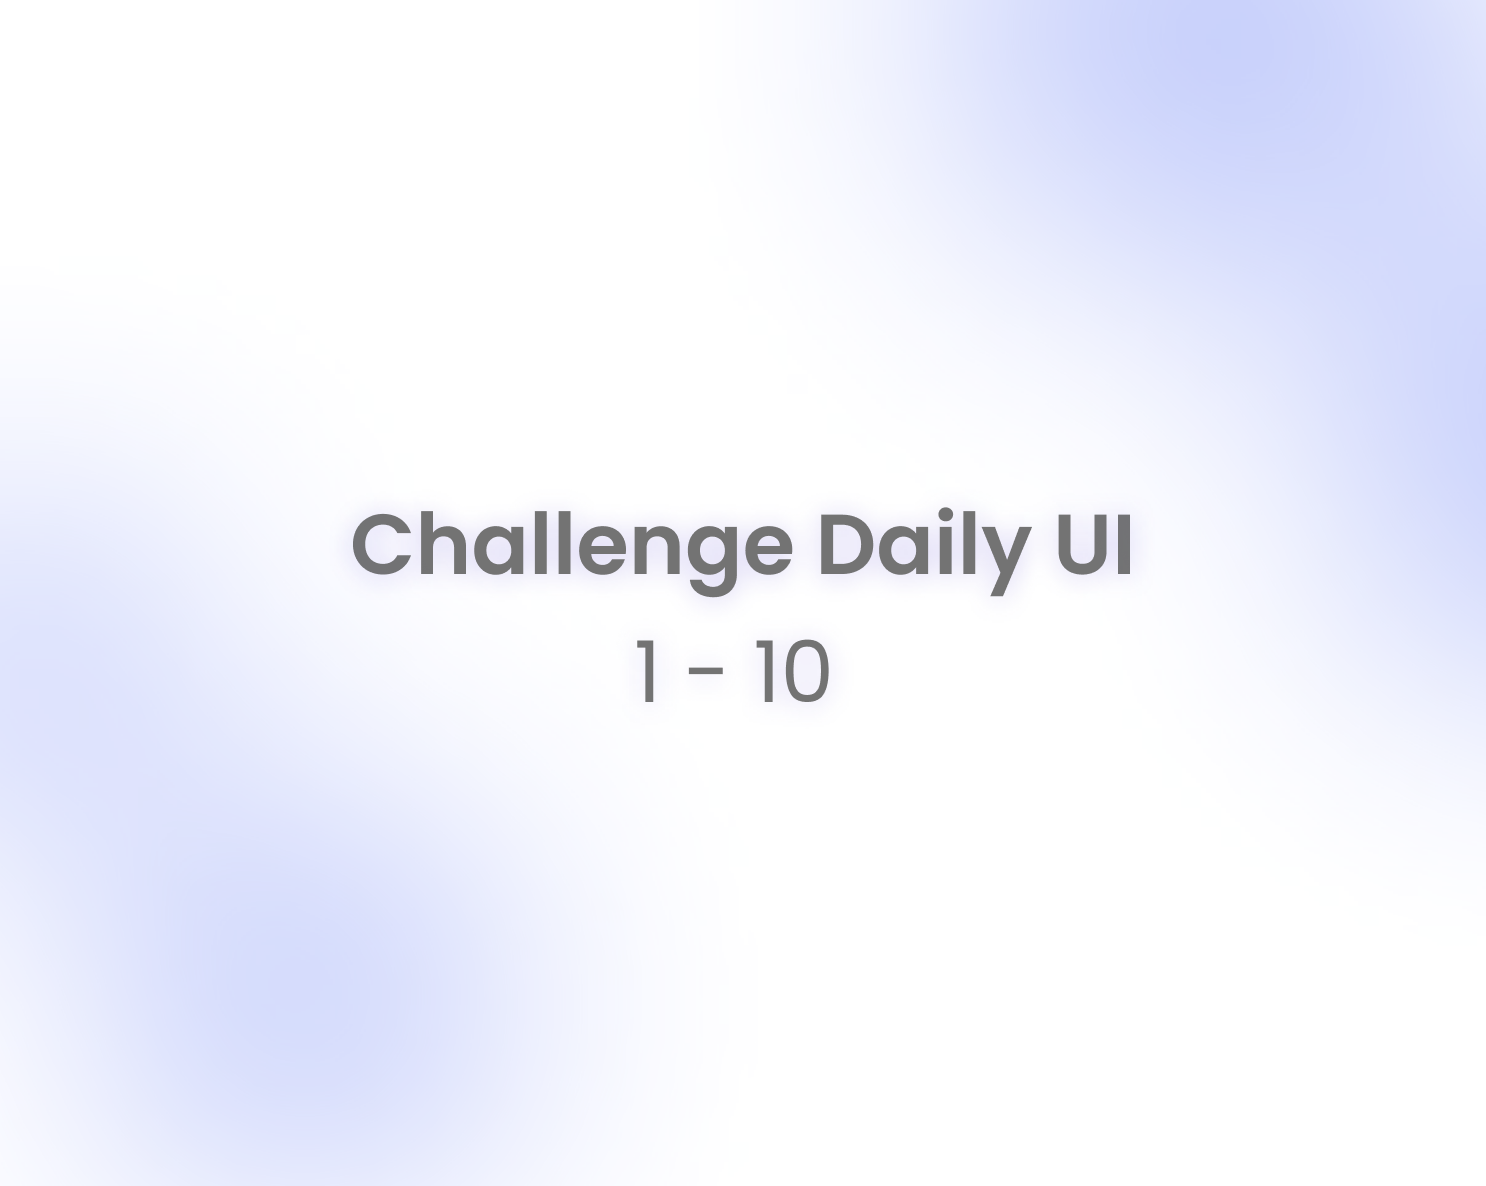
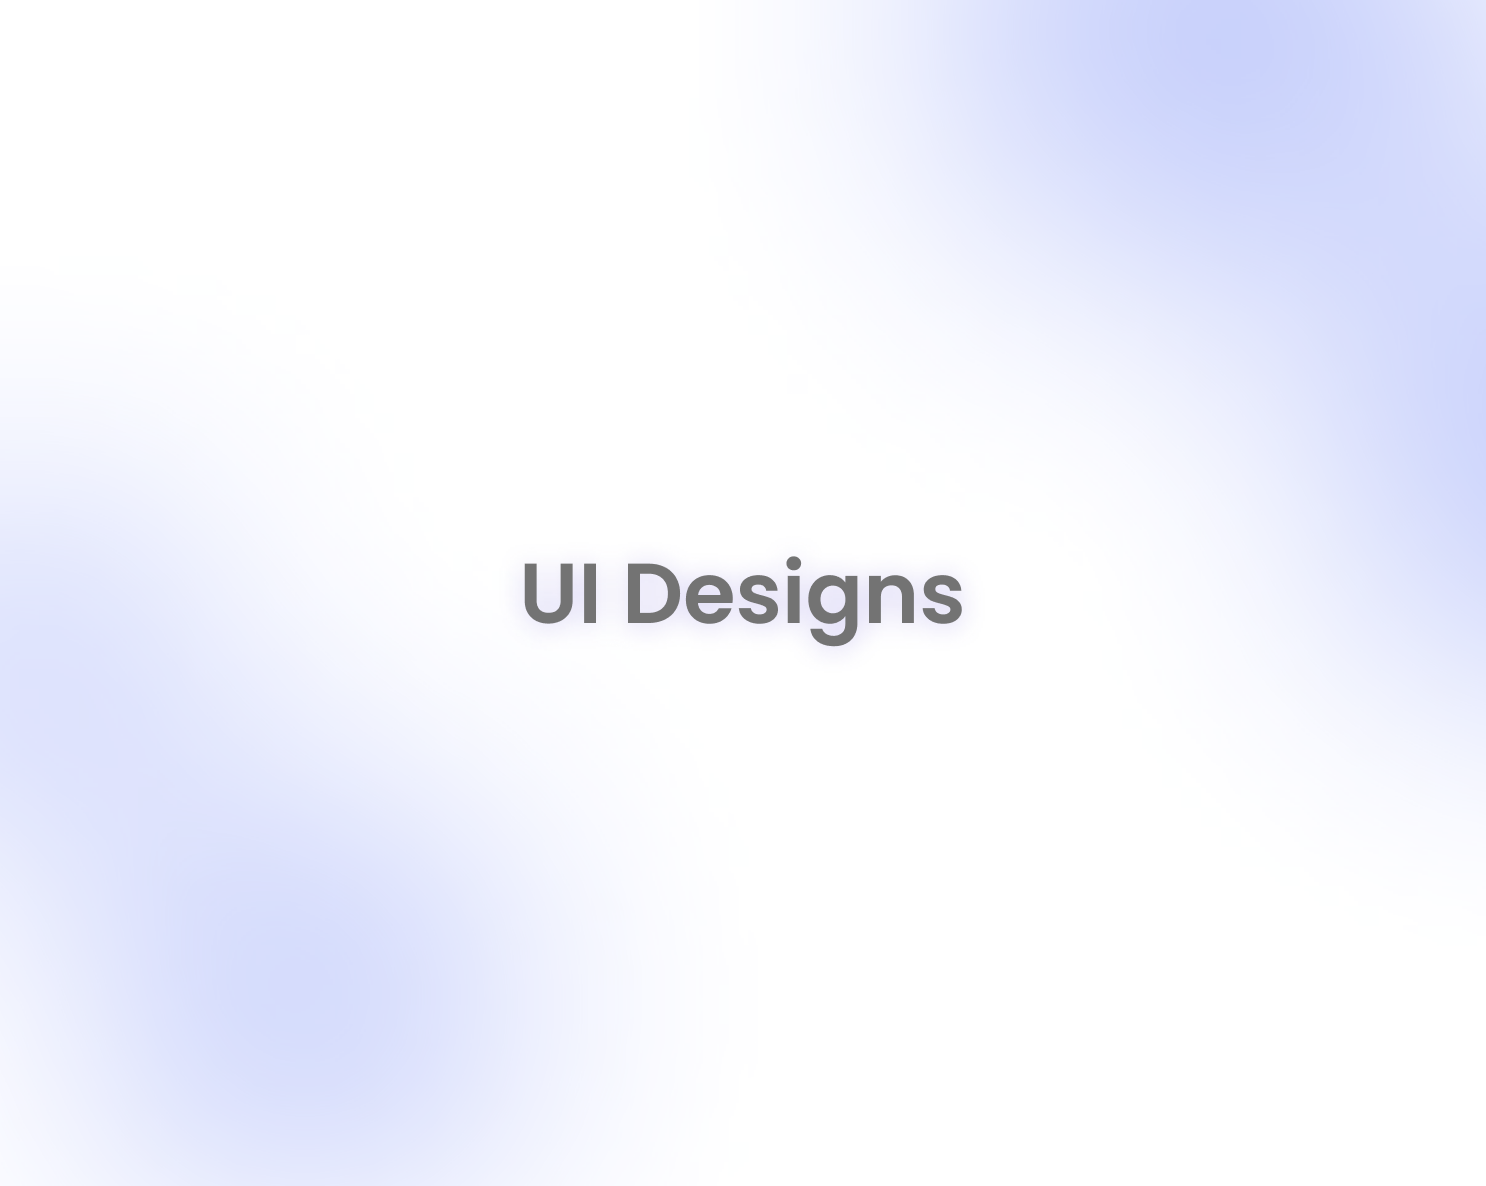
add ui designs

Changed region(s): [[0.2167, 0.4368, 0.7739, 0.5927]]

diff --git a/index.html b/index.html
@@ -531,9 +531,9 @@
                             <img src="./assets/img/Portada_challenge.png" alt=""  class="portfolio__img">
 
                             <div class="portfolio__data">
-                                <h3 class="portfolio__title">Challenge Daily UI</h3>
-                                <p class="portfolio__description">10 different UI design challenges.</p>
-                                <a href="https://www.behance.net/gallery/163252899/Daily-UI-1-10" class="button button--flex button--small portfolio__button" target="_blank">
+                                <h3 class="portfolio__title">UI Designs</h3>
+                                <p class="portfolio__description">I present different UI designs, both in mobile and for web and applications.</p>
+                                <a href="https://dribbble.com/nadia_chayna" class="button button--flex button--small portfolio__button" target="_blank">
                                     Demo
                                     <i class="uil uil-arrow-right button__icon"></i>
                                 </a>
